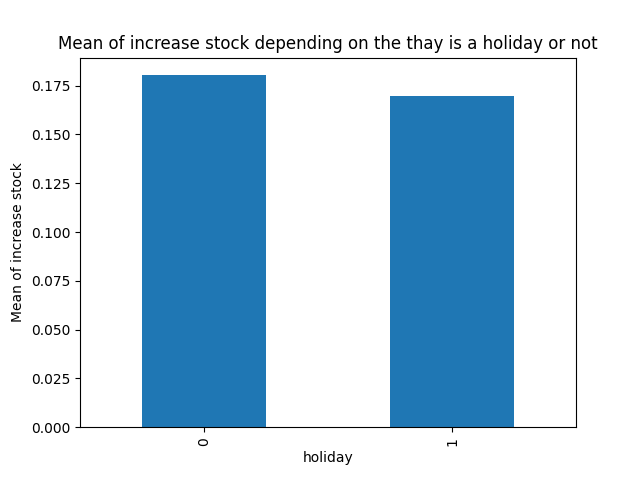
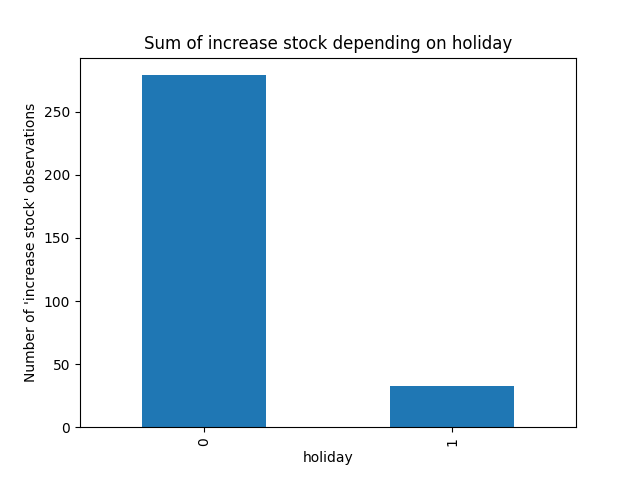
färdig grafgenering

diff --git a/ploting_data.py b/ploting_data.py
@@ -1,0 +1,26 @@
+import pandas as pd
+import matplotlib.pyplot as plt
+
+data = pd.read_csv("training_data_VT2026.csv")
+
+data["increase_stock"] = data["increase_stock"].map({
+    "low_bike_demand": 0,
+    "high_bike_demand": 1,
+})
+
+print_values = ["hour_of_day", "day_of_week", "month", "holiday", "weekday", "precip", "snowdepth"]
+
+for value in print_values:
+    series_to_plot = data.groupby(value)["increase_stock"].sum()
+    ax = series_to_plot.plot(kind='bar')
+
+    ax.set_ylabel("Number of 'increase stock' observations")
+    ax.set_title(f"Sum of increase stock depending on {value}")
+    if value == "precip":
+        ax.set_xlim(left=0, right=data["precip"].max()/2)
+    
+    fig = ax.get_figure() 
+    name = value + ".png"
+    fig.savefig(name)
+
+#print(data["precip"])
